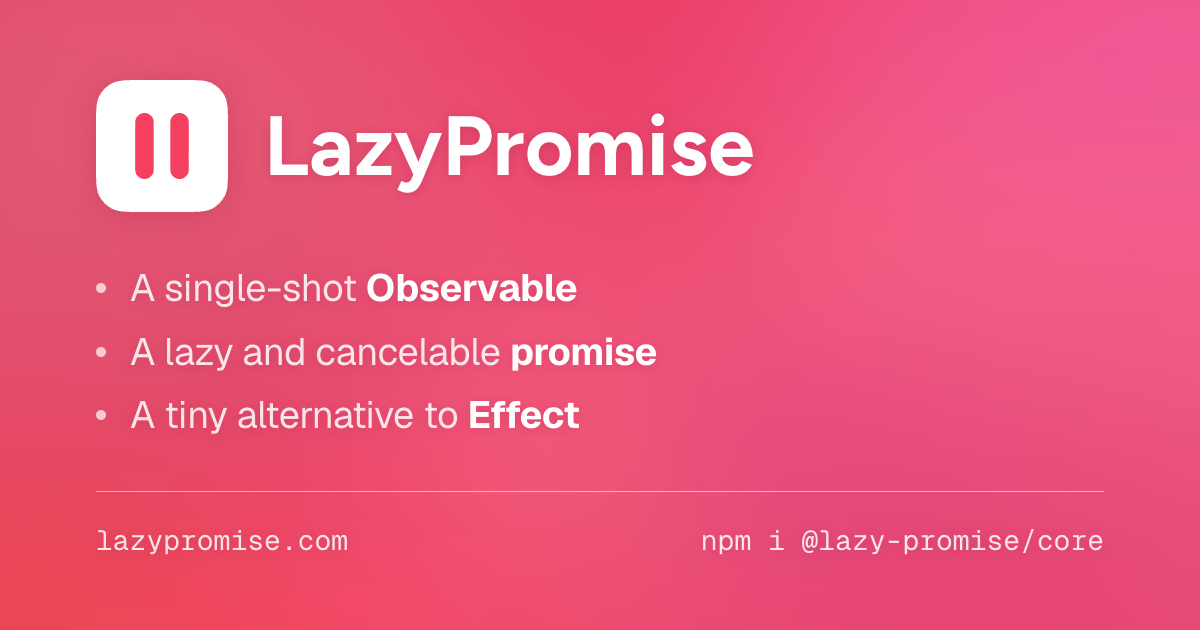
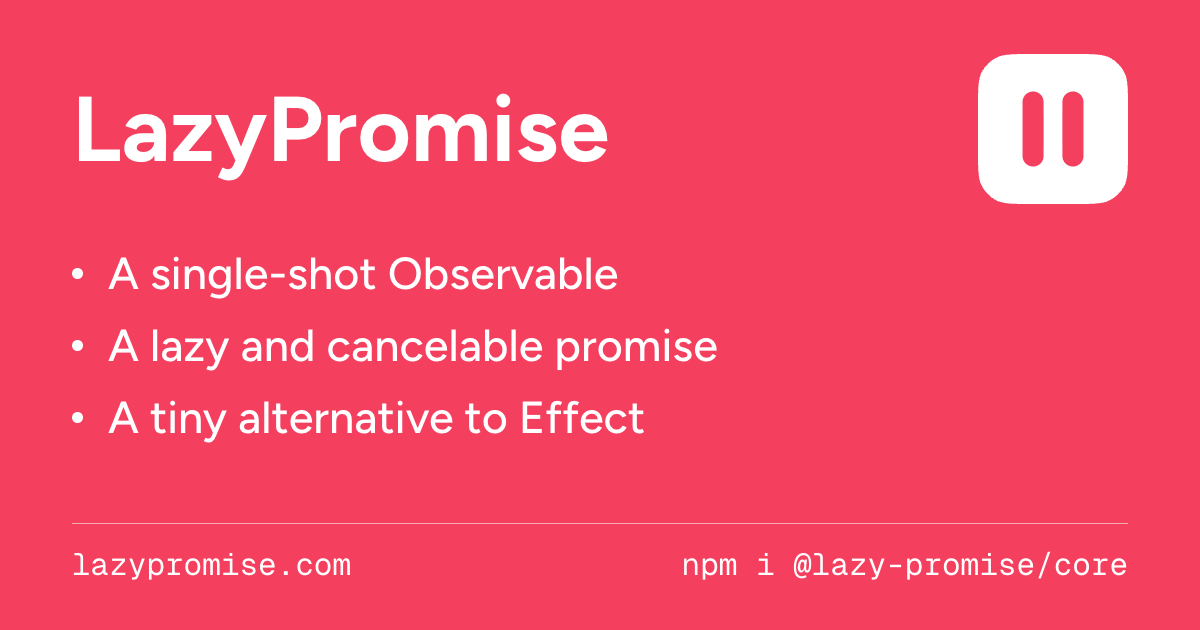
docs

diff --git a/packages/site/assets/og.html b/packages/site/assets/og.html
@@ -25,6 +25,9 @@
         src: url("../node_modules/@fontsource-variable/figtree/files/figtree-latin-wght-normal.woff2")
           format("woff2");
       }
+      * {
+        box-sizing: border-box;
+      }
       html,
       body {
         margin: 0;
@@ -33,120 +36,64 @@
         overflow: hidden;
       }
       body {
-        box-sizing: border-box;
-        padding: 80px 96px 72px;
-        position: relative;
-        background: #f43f5e;
-        color: #fff;
-        font-family: Geist, sans-serif;
-        -webkit-font-smoothing: antialiased;
         display: flex;
         flex-direction: column;
-        text-shadow: 0 2px 14px rgba(159, 18, 57, 0.28);
-      }
-      .swirl {
-        position: absolute;
-        inset: -25%;
-        z-index: -1;
-        filter: blur(90px);
-        background:
-          radial-gradient(
-            ellipse 40% 55% at 22% 30%,
-            #fb7185 0%,
-            transparent 70%
-          ),
-          radial-gradient(
-            ellipse 45% 45% at 80% 22%,
-            #ec4899 0%,
-            transparent 70%
-          ),
-          radial-gradient(
-            ellipse 50% 40% at 70% 85%,
-            #e11d48 0%,
-            transparent 70%
-          ),
-          radial-gradient(
-            ellipse 35% 45% at 15% 85%,
-            #f54c4c 0%,
-            transparent 70%
-          ),
-          conic-gradient(
-            from 210deg at 55% 50%,
-            #f43f5e,
-            #f0507a,
-            #e8365c,
-            #fb5a6e,
-            #db2777,
-            #f43f5e
-          );
-      }
-      .swirl::after {
-        content: "";
-        position: absolute;
-        inset: 0;
-        background: conic-gradient(
-          from 30deg at 40% 60%,
-          transparent 0deg,
-          rgba(255, 255, 255, 0.18) 90deg,
-          transparent 180deg,
-          rgba(136, 19, 55, 0.22) 270deg,
-          transparent 360deg
-        );
+        padding: 54px 72px 46px;
+        background: #f43f5e;
+        color: #fff;
+        font-family: Figtree, sans-serif;
+        -webkit-font-smoothing: antialiased;
       }
       .top {
         display: flex;
         align-items: center;
-        gap: 36px;
+        justify-content: space-between;
       }
       .name {
         font-family: Figtree, sans-serif;
-        font-size: 84px;
+        font-size: 92px;
         font-weight: 700;
         line-height: 1;
-        color: #fff;
       }
       .logo {
-        filter: drop-shadow(0 4px 18px rgba(159, 18, 57, 0.28));
+        display: block;
+        width: 150px;
+        height: 150px;
       }
       .points {
-        margin: auto 0;
+        display: grid;
+        gap: 19px;
+        margin-top: 43px;
+        margin-bottom: auto;
         padding: 0;
         list-style: none;
-        display: flex;
-        flex-direction: column;
-        gap: 16px;
-        font-size: 38px;
-        line-height: 1.25;
-        letter-spacing: -0.01em;
-        color: rgba(255, 255, 255, 0.86);
+        font-size: 45px;
+        font-weight: 500;
+        line-height: 1.18;
+        color: rgba(255, 255, 255);
       }
       .points li {
-        position: relative;
-        padding-left: 34px;
+        display: grid;
+        grid-template-columns: 14px 1fr;
+        align-items: center;
+        gap: 22px;
+        width: 100%;
       }
-      .points li::before {
-        content: "";
-        position: absolute;
-        left: 0;
-        top: 0.5em;
-        width: 10px;
-        height: 10px;
+      .bullet {
+        width: 11px;
+        height: 11px;
         border-radius: 50%;
-        background: rgba(255, 255, 255, 0.7);
-      }
-      .points strong {
-        font-weight: 700;
-        color: #fff;
+        background: #fff;
       }
       .footer {
         display: flex;
         align-items: center;
         justify-content: space-between;
-        padding-top: 30px;
+        padding-top: 20px;
         border-top: 1px solid rgba(255, 255, 255, 0.55);
         font-family: "Geist Mono", monospace;
-        font-size: 28px;
-        color: rgba(255, 255, 255, 0.86);
+        font-size: 31px;
+        color: rgba(255, 255, 255);
       }
       .footer code {
         font-family: inherit;
@@ -154,15 +101,9 @@
     </style>
   </head>
   <body>
-    <div class="swirl"></div>
-    <div class="top">
-      <svg
-        class="logo"
-        width="132"
-        height="132"
-        viewBox="0 0 128 128"
-        aria-hidden="true"
-      >
+    <header class="top">
+      <div class="name">LazyPromise</div>
+      <svg class="logo" viewBox="0 0 128 128" aria-hidden="true">
         <path
           fill="#ffffff"
           d="M82.186 0c16.036 0 24.055 0 30.18 3.121a28.634 28.634 0 0 1 12.513 12.513C128 21.759 128 29.777 128 45.814v36.372c0 16.036 0 24.055-3.121 30.18a28.634 28.634 0 0 1-12.513 12.513C106.241 128 98.223 128 82.186 128H45.814c-16.036 0-24.055 0-30.18-3.121a28.634 28.634 0 0 1-12.513-12.513C0 106.241 0 98.223 0 82.186V45.814c0-16.036 0-24.055 3.121-30.18A28.634 28.634 0 0 1 15.634 3.121C21.759 0 29.777 0 45.814 0h36.372Z"
@@ -170,16 +111,19 @@
         <rect x="38" y="32" width="18" height="64" rx="9" fill="#f43f5e" />
         <rect x="72" y="32" width="18" height="64" rx="9" fill="#f43f5e" />
       </svg>
-      <div class="name">LazyPromise</div>
-    </div>
+    </header>
     <ul class="points">
-      <li>A single-shot <strong>Observable</strong></li>
-      <li>A lazy and cancelable <strong>promise</strong></li>
-      <li>A tiny alternative to <strong>Effect</strong></li>
+      <li><span class="bullet"></span><span>A single-shot Observable</span></li>
+      <li>
+        <span class="bullet"></span><span>A lazy and cancelable promise</span>
+      </li>
+      <li>
+        <span class="bullet"></span><span>A tiny alternative to Effect</span>
+      </li>
     </ul>
-    <div class="footer">
+    <footer class="footer">
       <span>lazypromise.com</span>
       <code>npm i @lazy-promise/core</code>
-    </div>
+    </footer>
   </body>
 </html>
